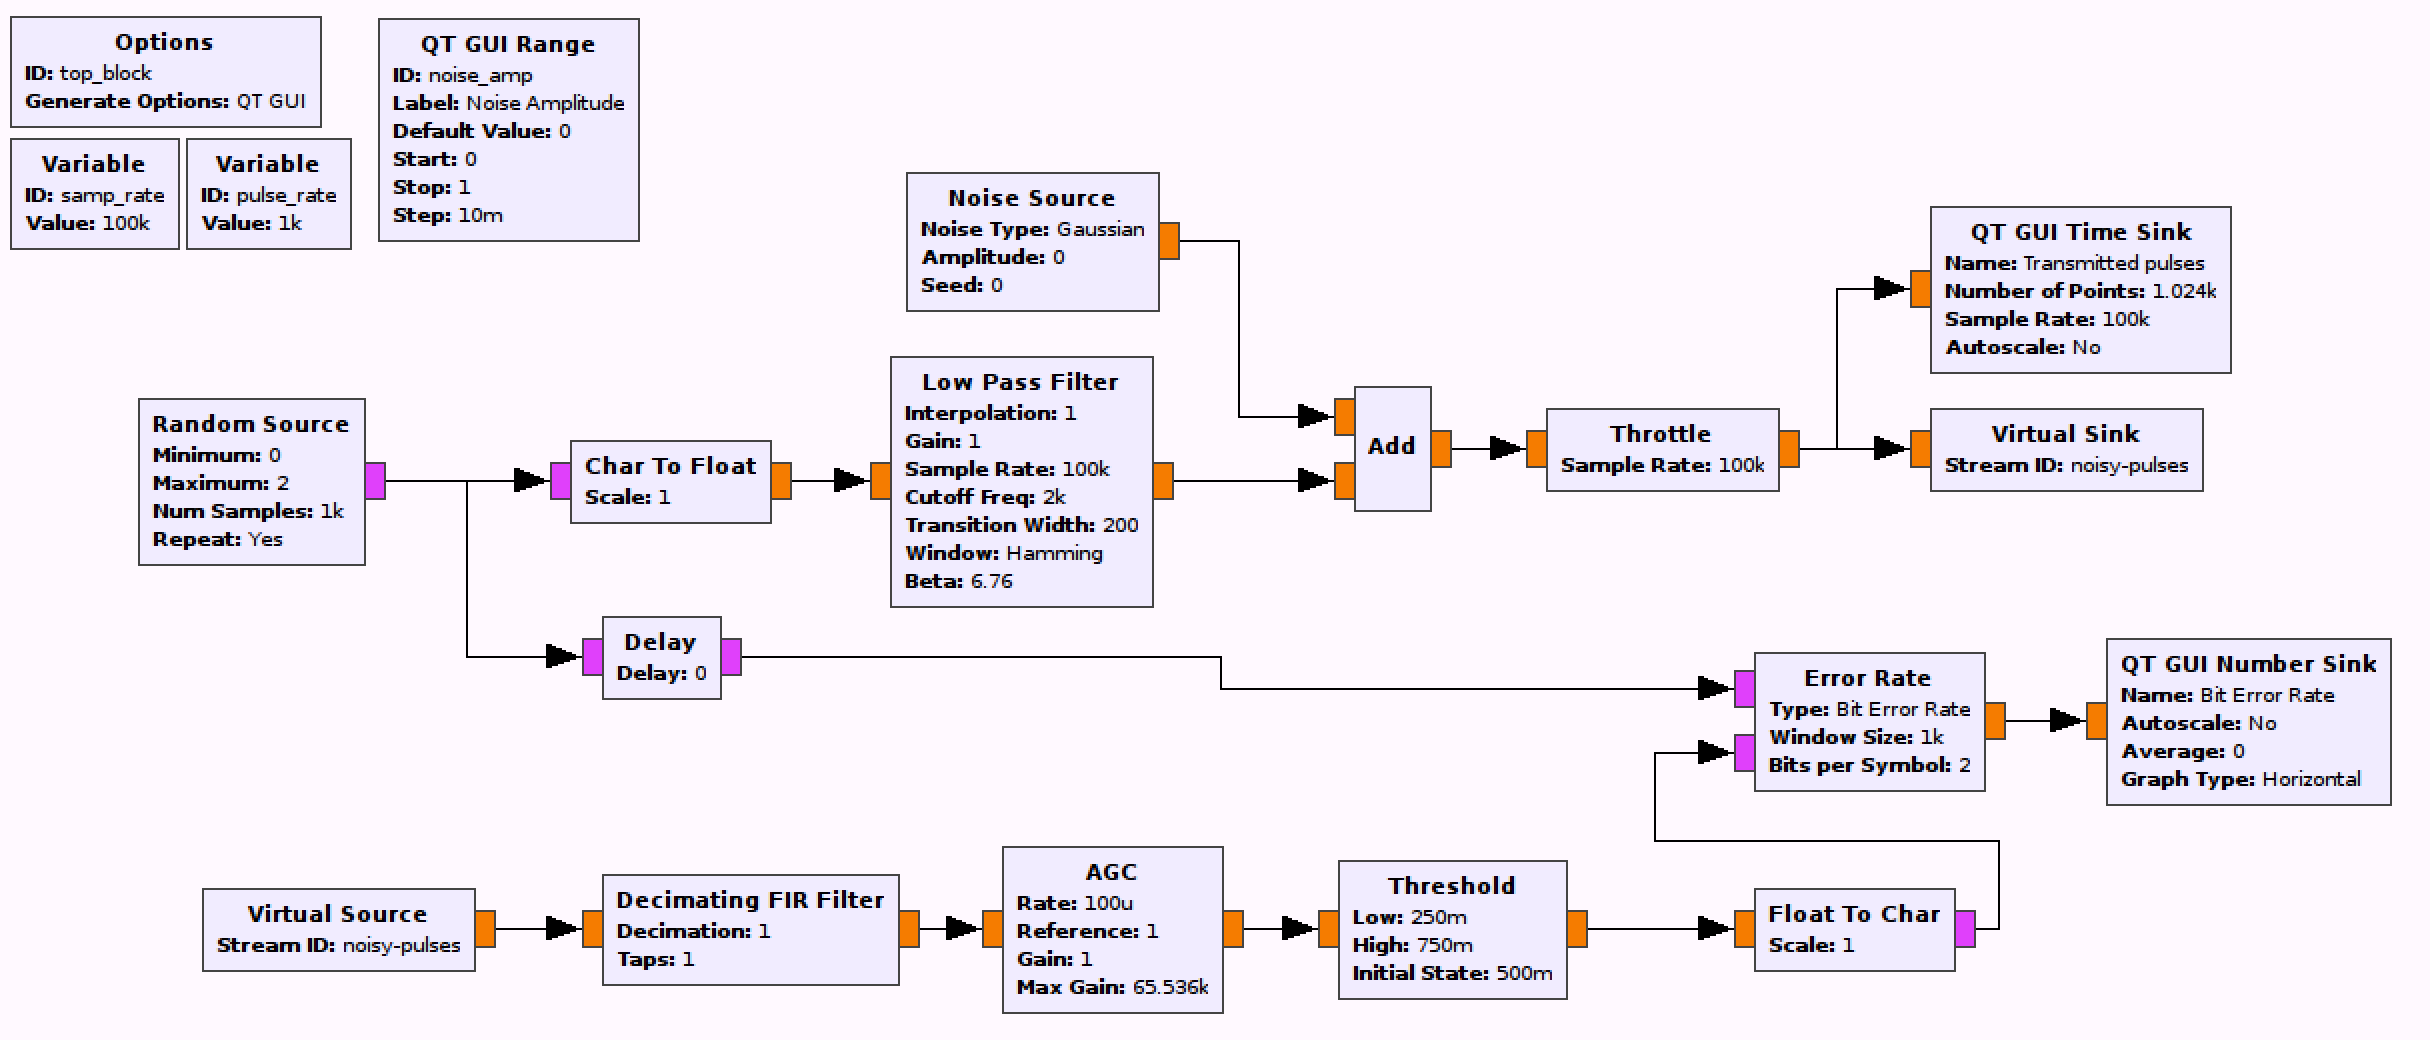
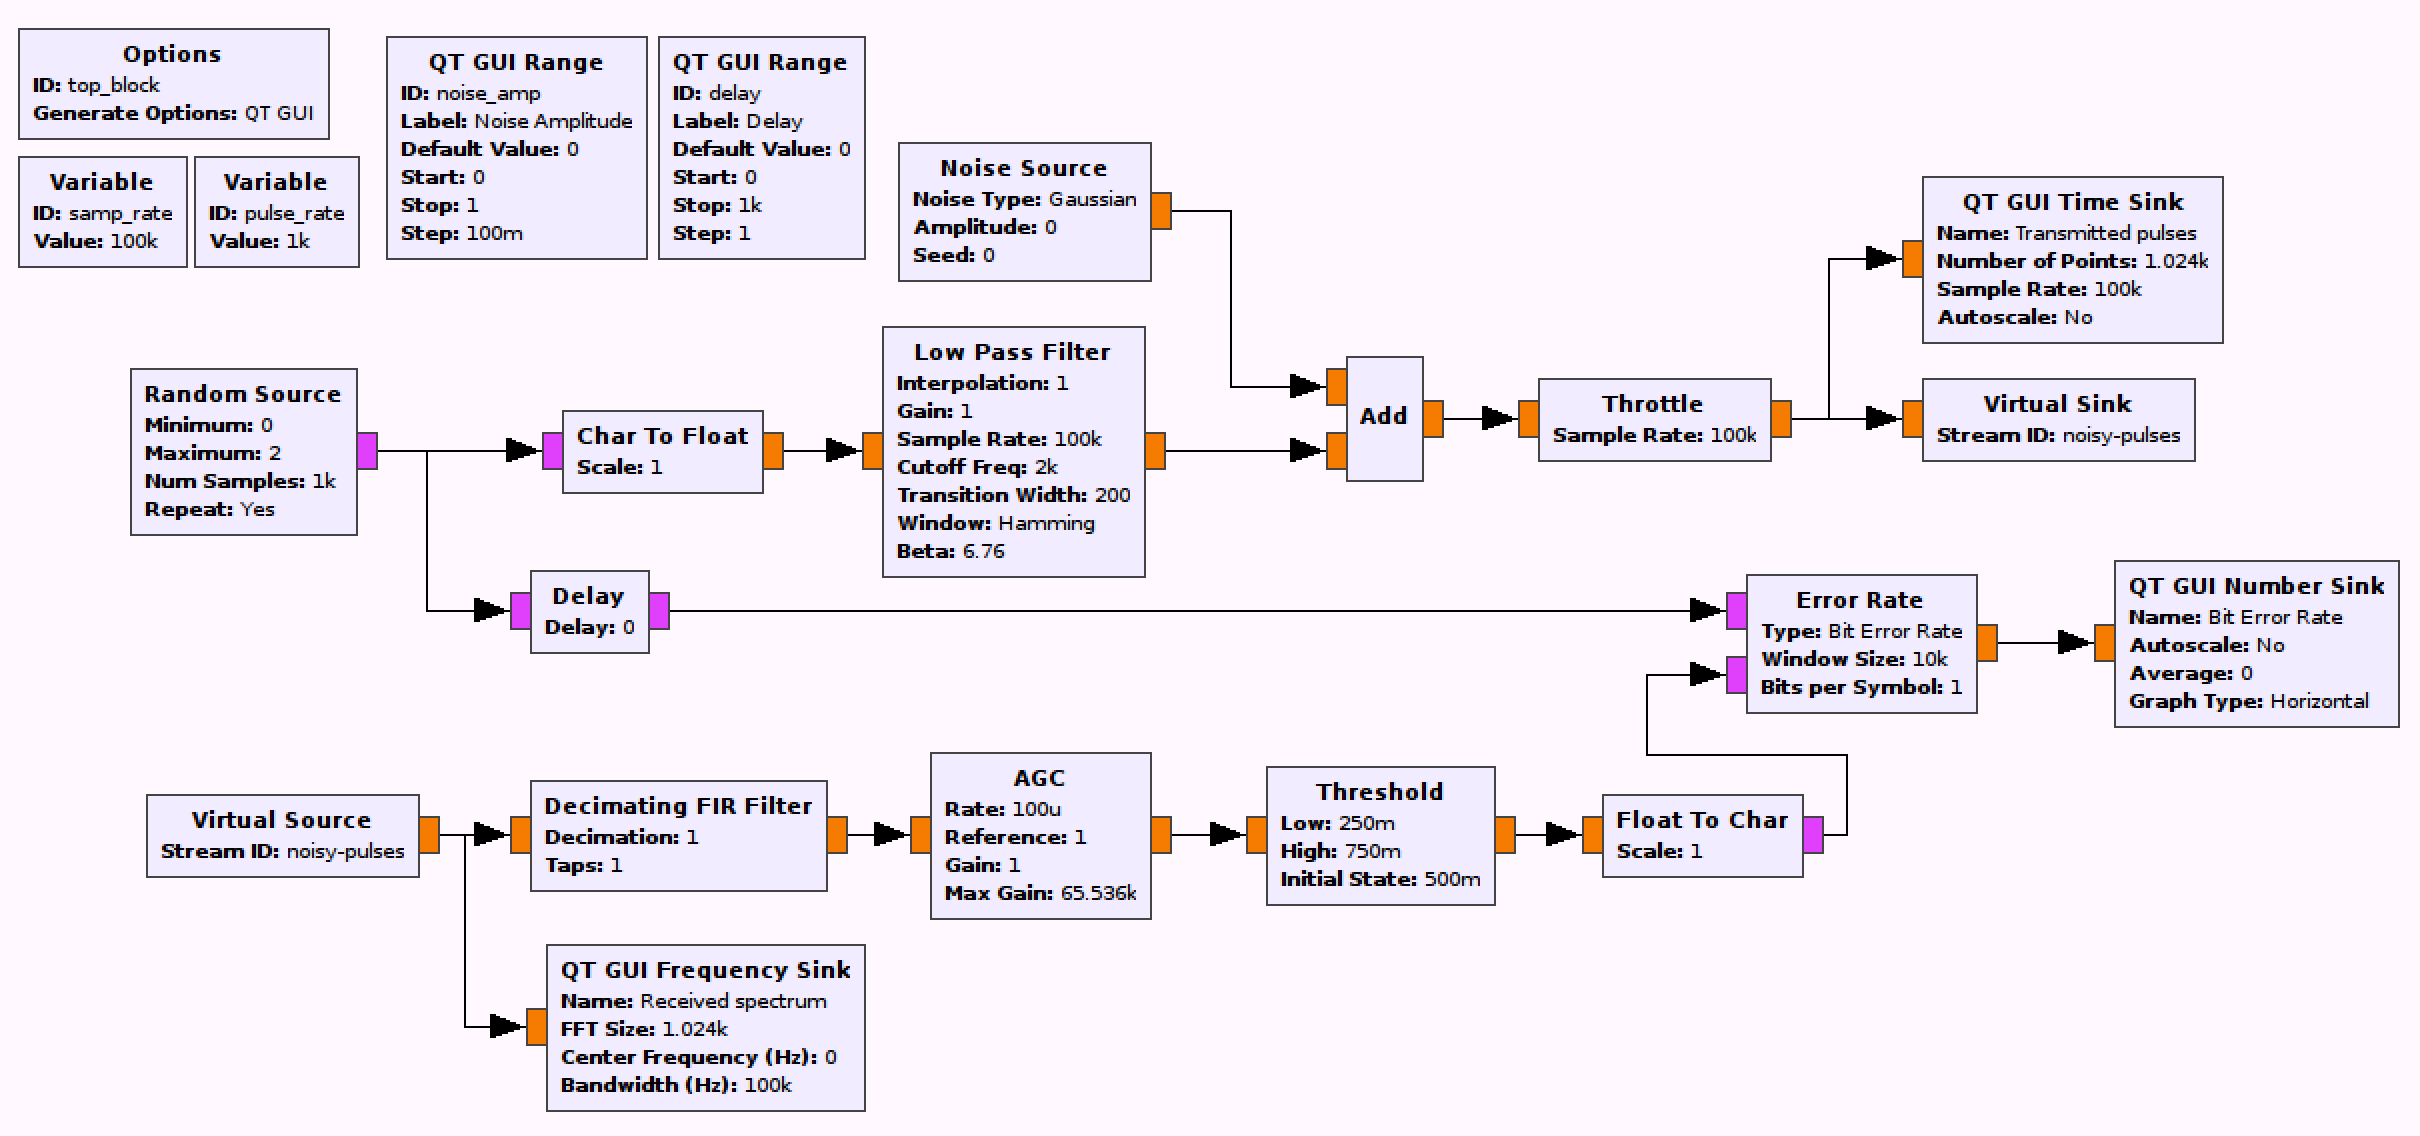
Draft 1 complete of Lab 1

diff --git a/_ece450/lab1/square-pulse-shaping.md b/_ece450/lab1/square-pulse-shaping.md
@@ -18,7 +18,10 @@ You will implement a communications system using a square pulse for pulse shapin
 
 ## Part 2 deliverables
 
-TBD
+For this section, the deliverables are:
+
+- the answer to one deliverable question,
+- a dataset for later use in this lab.
 
 ---
 
@@ -46,7 +49,7 @@ Construct the following GRC flowgraph.
   - When the input signal transitions from above to below the "Low" threshold, the output becomes a 0.
   - For our input an intelligent starting place would be to have 0.25 and 0.75 as the threshold bounds, but you should set up two *QT GUI Range* blocks to control these values.
 
-- To evaluate the system performance, we can compute the BER of the system by using the *Error Rate* block. This block compares the two input bit streams. The "Window Size" parameter determines the number of samples used for the BER computation. Use a Window Size of 1000 and set the Bits per Symbol to 2.
+- To evaluate the system performance, we can compute the BER of the system by using the *Error Rate* block. This block compares the two input bit streams. The "Window Size" parameter determines the number of samples used for the BER computation. Use a Window Size of 10000 and set the Bits per Symbol to 1.
 
 - The output of the *Error Rate* block is a percentage (from 0 to 1) so set the limits of the *QT GUI Number Sink* to reflect this.
 
@@ -61,7 +64,7 @@ Construct the following GRC flowgraph.
       ![delay-qt-sink-config.png](figures/delay-qt-sink-config.png) <br>
       __*Sink params to make finding the delay grahically a little easier*__
 
-    - When you run the flowgraph you'll likely see an error rate of of between 25 and 50 percent. If you zoom in on the time series plot you'll see that the bitstreams are not aligned. Click "Stop" on the flowgraph so that everything freezes and zoom in, looking for offset patterns in the two streams. Once an offset has been found (as in the figure below), the delay can be adjusted by the correct number of samples. They delay will vary depending on your computer - it was between 12 and 18 for me.
+    - When you run the flowgraph you'll likely see an error rate of of between 25 and 50 percent. If you zoom in on the time series plot you'll see that the bitstreams are not aligned. Click "Stop" on the flowgraph so that everything freezes and zoom in (you will want to enable "Control Panel" in the block settings), looking for offset patterns in the two streams. Once an offset has been found (as in the figure below), the delay can be adjusted by the correct number of samples. They delay will vary depending on your computer - it was between 12 and 18 for me.
 
       ![un-delayed-bitstreams.png](figures/un-delayed-bitstreams.png)<br>
       __*A pattern found in the un-delayed bitstream. The blue bitstream between the blue arrows matches the red bitstream between the red arrows. BER=26%.*__
@@ -71,10 +74,15 @@ Construct the following GRC flowgraph.
       ![delayed-bitstreams.png](figures/delayed-bitstreams.png)<br>
       __*Delay corrected bitstreams. BER=5%.*__
 
-- Once you have the delay parameter set, you can disable the blocks you used to capture that value. Record the Bit Error Rate for noise amplitudes of 0, 0.25, 0.5, 0.75 and 1. As you record these values, observe the transmitted noisy pulses.
+- Once you have the delay parameter set, you can disable the blocks you used to capture that value.
 
-- Offset the delay by a single sample. Repeat recording the Bit Error Rate for the above four noise amplitudes.
+- Now collect a dataset of SNR and BER at noise amplitudes of 0.0, 0.1, 0.2, ... 0.9, 1.0.
+  - The Bit Error Rate can be read off of the *QT GUI Number Sink* output. After changing the noise amplitude, let the BER stabilize before recording it.
+  - To read the SNR, activate the "Control Panel" option in the *QT GUI Frequency Sink* block parameters. Then, while the flowgraph is running, set "Trace Options" to "Max Hold" and make sure the "Avg" slider is set to maximum. This should make it easier to read the signal SNR off of the generated spectrum.
+  - As you record these values, observe the transmitted noisy pulses and the spectrum. Is the spectral shape what you expected?
 
-{% include alert.html title="Deliverable question 1" class="info" content="What are the BER values you recorded for the perfectly delayed system? What are the BER values you recorded for the single sample offset system? List them."%}
+- Offset the delay by a single sample. Check the BER with 0 noise amplitude.
 
-{% include alert.html title="Deliverable question 2" class="info" content="What do you observations suggest about the relative impact on a communications system between a timing offset and noise?"%}
+{% include alert.html title="Deliverable question 1" class="info" content="What do you observations suggest about the relative impact on a communications system between a timing offset and noise?"%}
+
+Review the [section deliverables](#part-2-deliverables) beforing moving on.

diff --git a/_ece450/lab1/rrc-pulse-shaping.md b/_ece450/lab1/rrc-pulse-shaping.md
@@ -10,13 +10,16 @@ next: /ece450/lab1/BER-calculation
 
 ## Objectives
 
-You will implement a communications system using a Root Raised Cosine (RRC) filter for pulse shaping. 
+You will implement a communications system using a Root Raised Cosine (RRC) filter for pulse shaping.
 
 ---
 
 ## Part 4 deliverables
 
-TBD
+For this section, the deliverables are:
+
+- the answer to two deliverable questions,
+- a dataset for later use in this lab.
 
 ---
 
@@ -38,6 +41,15 @@ Construct the following GRC flowgraph. It is very similar to the previous pulse 
 
 - The delay can be found as before. For me it was 500 samples with the above listed filter parameters.
 
-- Note the added *QT GUI Frequency Sink* block. You will use it with "Trace hold" set to "Max" to measure the SNR of the received noisy signal.
+- Now collect a dataset of SNR and BER at noise amplitudes of 0.0, 0.1, 0.2, ... 0.9, 1.0.
+  - The Bit Error Rate can be read off of the *QT GUI Number Sink* output. After changing the noise amplitude, let the BER stabilize before recording it.
+  - To read the SNR, activate the "Control Panel" option in the *QT GUI Frequency Sink* block parameters. Then, while the flowgraph is running, set "Trace Options" to "Max Hold" and make sure the "Avg" slider is set to maximum. This should make it easier to read the signal SNR off of the generated spectrum.
+  - As you record these values, observe the transmitted noisy pulses and the spectrum. How does the spectral shape compare with the LPF version?
 
-- Record the BER values for noise amplitudes of 0, 0.25, 0.5, 0.75 and 1. Observe the transmitted noisy pulses to see whether you're able to visually read off the bitstream.
+- Change the noise amplitude back to 0 and offset the delay value by 1.
+
+{% include alert.html title="Deliverable question 3" class="info" content="Consider the time domain shape (impulse response) of the root raised cosine filter. In an ideal system, RRC filters have zero-ISI (inter-symbol interference). Why is this? It may help your understanding to draw multiple pulses `[1, 1, 1]` next to each other." %}
+
+{% include alert.html title="Deliverable question 4" class="info" content="Consider the relative impact of noise versus a timing offset on the system. Does the RRC filter fare any better than the square pulses did with an offset of 1 sample?" %}
+
+Review the [section deliverables](#part-4-deliverables) beforing moving on.

diff --git a/_ece450/lab1/lpf-pulse-shaping.md b/_ece450/lab1/lpf-pulse-shaping.md
@@ -10,13 +10,16 @@ next: /ece450/lab1/rrc-pulse-shaping
 
 ## Objectives
 
-You will implement a communications system using a Low Pass Filter (LPF) for pulse shaping. 
+You will implement a communications system using a Low Pass Filter (LPF) for pulse shaping.
 
 ---
 
 ## Part 3 deliverables
 
-TBD
+For this section, the deliverables are:
+
+- the answer to one deliverable question,
+- a dataset for later use in this lab.
 
 ---
 
@@ -44,6 +47,11 @@ Construct the following GRC flowgraph. It is very similar to the square pulse sh
 
 - Using the same method as in the [previous section of the lab]({% link _ece450/lab1/square-pulse-shaping.md %}), find the system delay and apply it. Again, it will differ by computer but mine was around 6.
 
-- Record the BER values for noise amplitudes of 0, 0.25, 0.5, 0.75 and 1, observe the noisy signal to see whether you can easily read the bitstream.
+- Now collect a dataset of SNR and BER at noise amplitudes of 0.0, 0.1, 0.2, ... 0.9, 1.0.
+  - The Bit Error Rate can be read off of the *QT GUI Number Sink* output. After changing the noise amplitude, let the BER stabilize before recording it.
+  - To read the SNR, activate the "Control Panel" option in the *QT GUI Frequency Sink* block parameters. Then, while the flowgraph is running, set "Trace Options" to "Max Hold" and make sure the "Avg" slider is set to maximum. This should make it easier to read the signal SNR off of the generated spectrum.
+  - As you record these values, observe the transmitted noisy pulses and the spectrum. Are you able to read the bitstream off of the received waveform? At which SNR can you no longer do this?
 
-{% include alert.html title="Deliverable question 3" class="info" content="How do the bit error values compare between square pulses and low pass filtered pulses? What is this attributable to?" %}
+{% include alert.html title="Deliverable question 2" class="info" content="How do the bit error values compare between square pulses and low pass filtered pulses? What is this attributable to?" %}
+
+Review the [section deliverables](#part-3-deliverables) beforing moving on.

diff --git a/_ece450/lab1/calculating-ber.md b/_ece450/lab1/calculating-ber.md
@@ -10,13 +10,17 @@ next: /ece450/lab1/conclusion
 
 ## Objectives
 
-You will implement a communications system using a Root Raised Cosine (RRC) filter for pulse shaping. 
+You will use the values recorded for each pulse shape to plot a BER-SNR curve.
 
 ---
 
 ## Part 5 deliverables
 
-TBD
+For this section, the deliverables are:
+
+- the answer to one deliverable question,
+- the code used to generate the BER curve (with the dataset hard coded into it),
+- the resulting BER curve as a .PNG image file.
 
 ---
 
@@ -24,11 +28,17 @@ TBD
 
 Using the values collected throughout this lab you can now generate a BER curve.
 
-### Calculating SNR
+You can use a programming language of your choice, but python or matlab have some handy tools for this job built in.
 
-- Remember from the textbook section 3.1.3.4 that the average power of zero-mean white noise is the variance [1].
-- Remember that the amplitude of the noise generated using the 
+The plot should have:
 
-## References:
+- a log scale on the y-axis
+- a linear scale on the x-axis
+- appropriate axes titles
+- a legend (one entry for each of "Square", "LPF", "RRC")
 
-[1] Sklar, B., & Ray, P. K. (2013). Digital Communications: Fundamentals and Applications (2nd ed.). Pearson. https://doi.org/10.1201/9781420049763.ch70
+A sample of what it might look like is included below (without labelling elements). **This sample had some curve-fitting/interpolation done to it which you do not need to do.**
+
+{% include alert.html title="Deliverable question 5" class="info" content="Provide insight into your results. What does the BER curve tell you about these pulse-shaping options?" %}
+
+Review the [section deliverables](#part-5-deliverables) beforing moving on.

diff --git a/_ece450/lab1/introduction.md b/_ece450/lab1/introduction.md
@@ -20,6 +20,10 @@ You will learn about:
 
 ## Deliverables
 
-TBD
+In this lab there are the following deliverables:
+
+- a single page of answers to the deliverable questions laid out in the lab. In this lab there are 5 of them. They are all highlighted and labelled with their respective question numbers. Each question will require some thought and should be answered concisely with 1 to 2 sentences of text and perhaps an accompanying figure.
+- a short code you write to generate a BER versus SNR curve
+- your final BER versus SNR curve figure
 
 {% include alert.html class="danger" title="Note" content="In the ECE 350 labs, flowgraphs were shown to you with all of the block values already set. This made it possible to complete the labs by only copying from pictures. In ECE 450 the flowgraphs presented do not have the block values pre-set. Use the flowgraphs as a guiding point, but you will have to adjust the block parameters depending on their purpose. If you can't figure something out, ask a TA!" %}

diff --git a/_ece450/lab1/conclusion.md b/_ece450/lab1/conclusion.md
@@ -1,0 +1,21 @@
+---
+layout: labitem
+title: Lab 1 - Conclusion
+
+permalink: /ece450/lab1/conclusion
+course: ece450
+prev: /ece450/lab1/calculating-ber
+next: /ece450/lab2
+---
+
+In this lab, you used GNU Radio to test several different pulse shaping methods. You recorded SNR and BER values for each and wrote a short script to turn them into a BER vserus SNR curve. You also learned about the importance of timing recovery.
+
+## Deliverables
+
+In this lab there are the following deliverables:
+
+- a single page of answers to the deliverable questions laid out in the lab. In this lab there are 5 of them. They are all highlighted and labelled with their respective question numbers. Each question (hopefully) required some thought and was answered concisely with 1 to 2 sentences of text and perhaps an accompanying figure.
+- a short code you wrote to generate a BER versus SNR curve
+- your final BER versus SNR curve figure
+
+Submit these three deliverables to your TA over coursespaces.
